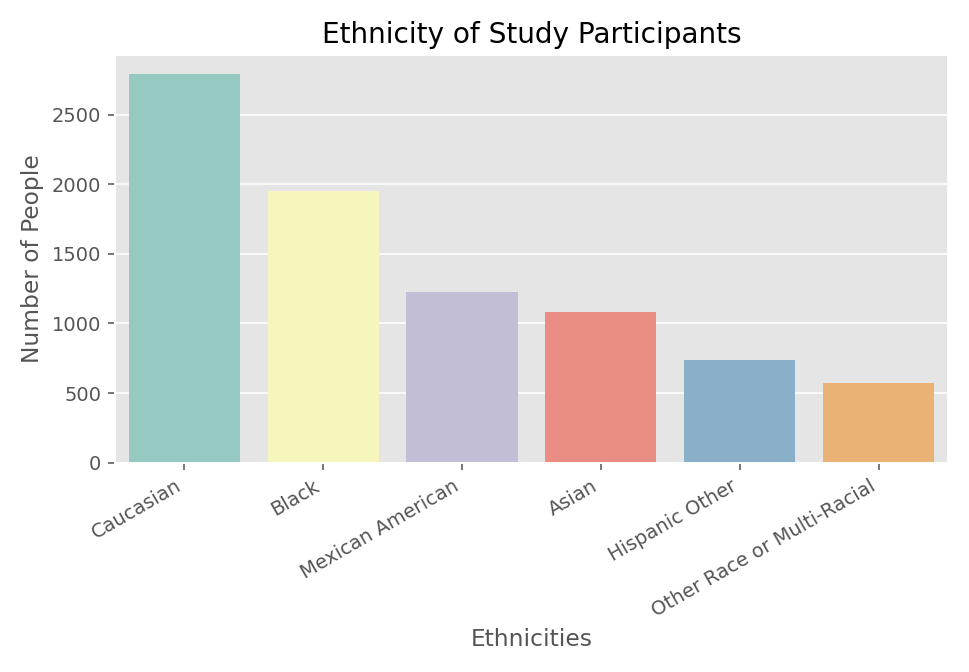
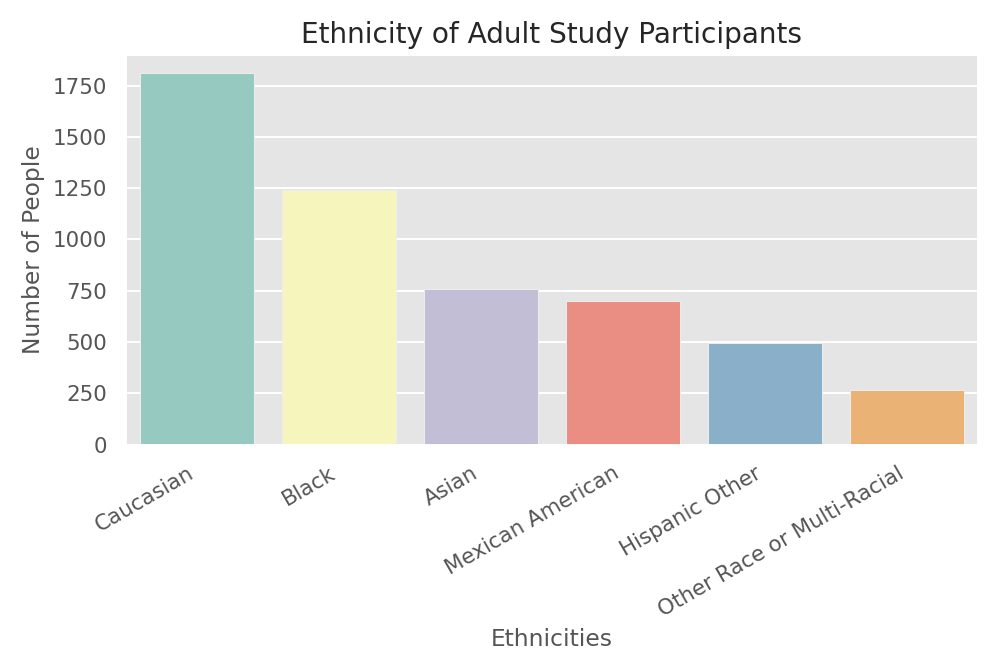
lost the will to live, found it again then updated an image

diff --git a/src/cap2.py b/src/cap2.py
@@ -36,6 +36,7 @@ def load_NHANES_data():
         [pandas DataFrame]: A DataFrame containing complete column list from each 
         file selected for use.
     """    
+
     lab = "HSCRP_J.XPT HDL_J.XPT TCHOL_J.XPT FASTQX_J.XPT"
     more_lab = "ALB_CR_J.XPT GLU_J.XPT CRCO_J.XPT FOLFMS_J.XPT \
     HEPB_S_J.XPT  IHGEM_J.XPT   UCM_J.XPT  VIC_J.XPT BIOPRO_J.XPT \
@@ -95,6 +96,8 @@ def load_NHANES_data():
     nhanes_df = nhanes_df.merge(df_dic['PAQ_J.XPT'], on='SEQN', how='left')
     nhanes_df = nhanes_df.merge(df_dic['SMQ_J.XPT'], on='SEQN', how='left')
     nhanes_df = nhanes_df.merge(df_dic['SMQFAM_J.XPT'], on='SEQN', how='left')
+    
+    nhanes_df = nhanes_df[nhanes_df['RIDEXAGM'].isnull()]
     return nhanes_df
 
 nhanes_df = load_NHANES_data()
@@ -367,7 +370,7 @@ if __name__ == "__main__":
 
     #remove children 
     model_nhanes_df = model_nhanes_df[model_nhanes_df['RIDEXAGM'].isnull()]
-    nhanes_df = nhanes_df[nhanes_df['RIDAGEYR'].notnull()]
+    # nhanes_df = nhanes_df[nhanes_df['RIDAGEYR'].notnull()]
 
     # plot missingno 
     # msno.matrix(model_nhanes_df)
@@ -393,12 +396,12 @@ if __name__ == "__main__":
     nhanes_df['RIDRETH3'].replace([7.0], 'Other Race or Multi-Racial', inplace=True)
     
     ethnicity_dic = {
-        'title': 'Ethnicity of Study Participants',
+        'title': 'Ethnicity of Adult Study Participants',
         'ylabel': 'Number of People',
         'xlabel': 'Ethnicities'
     }
     ethnicity_plot = plot('RIDRETH3', df=nhanes_df, terms=ethnicity_dic)
-    # ethnicity_plot.sbcountplot()
+    ethnicity_plot.sbcountplot()
 
 
     tooth_dic = {
